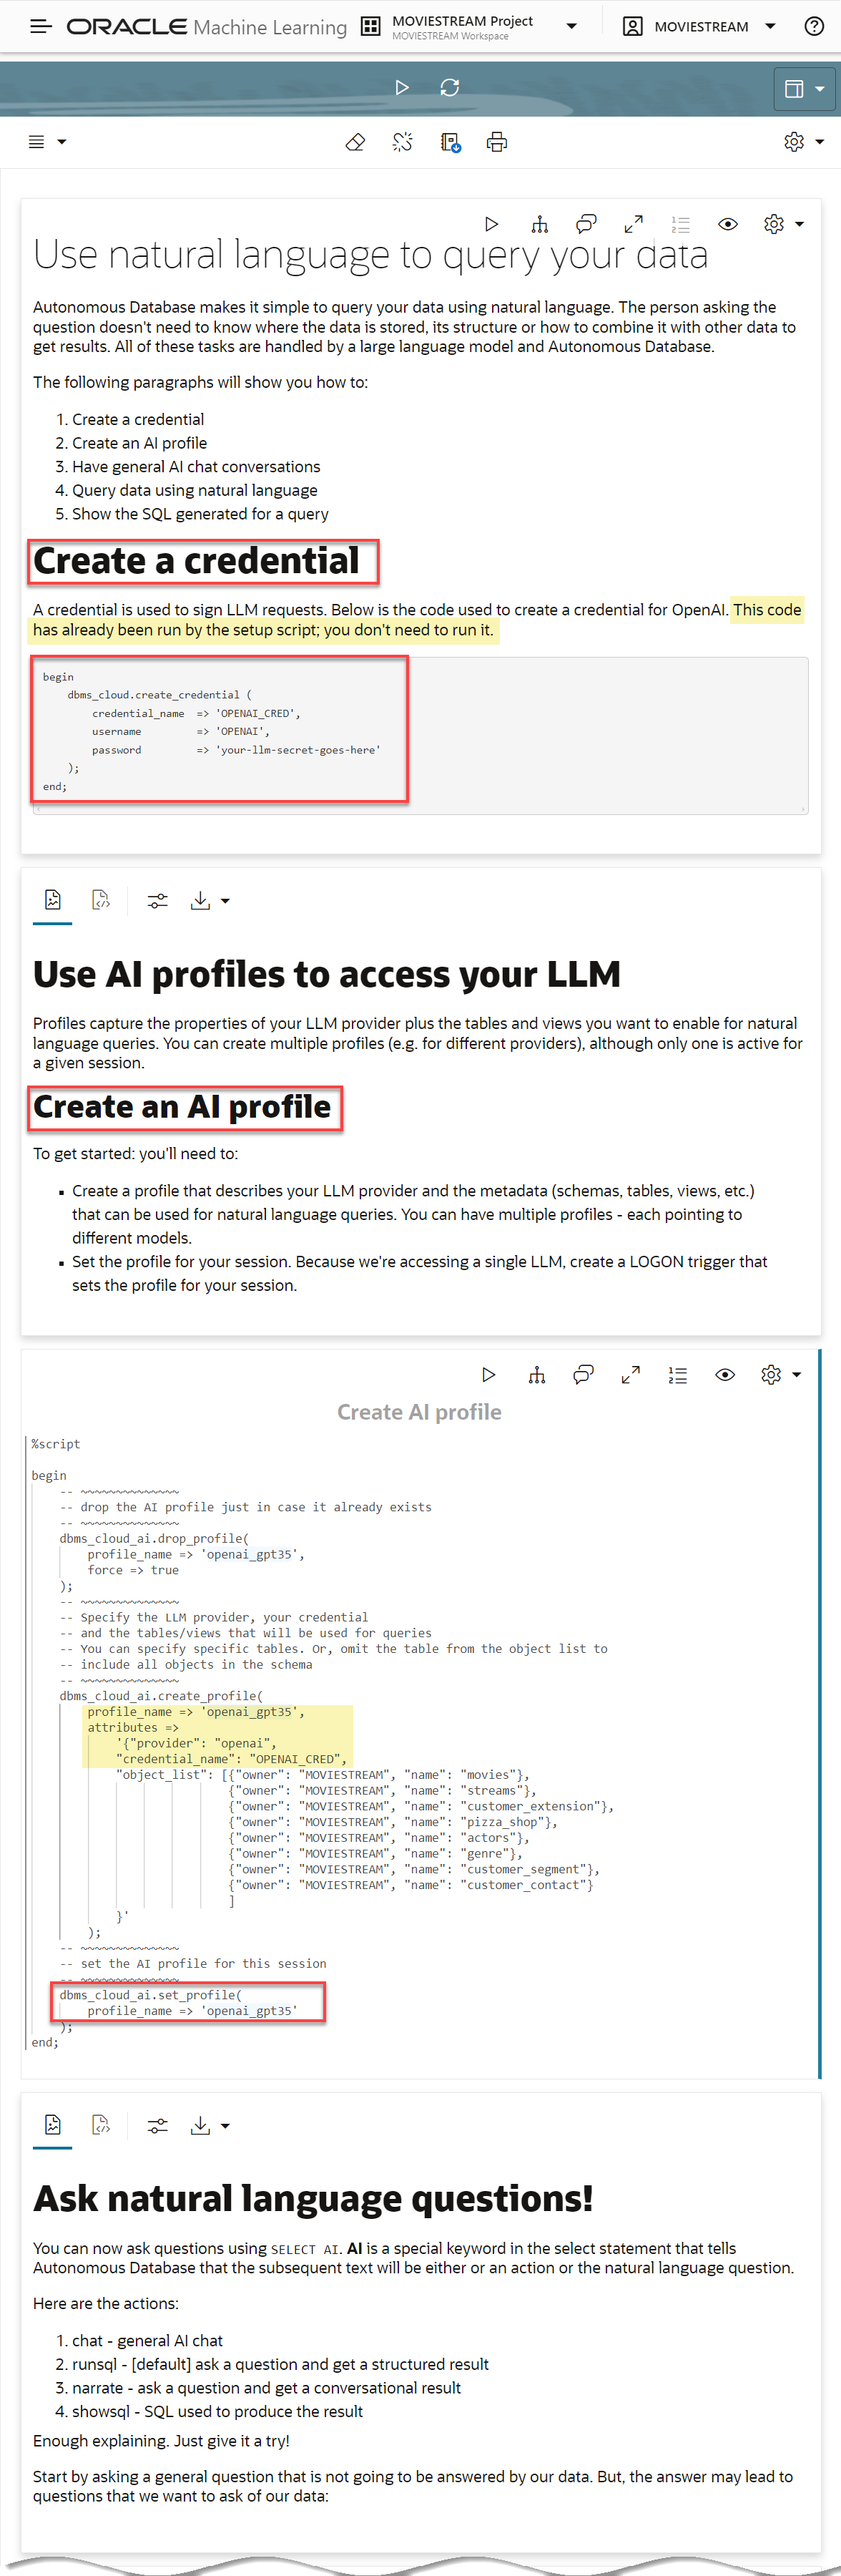
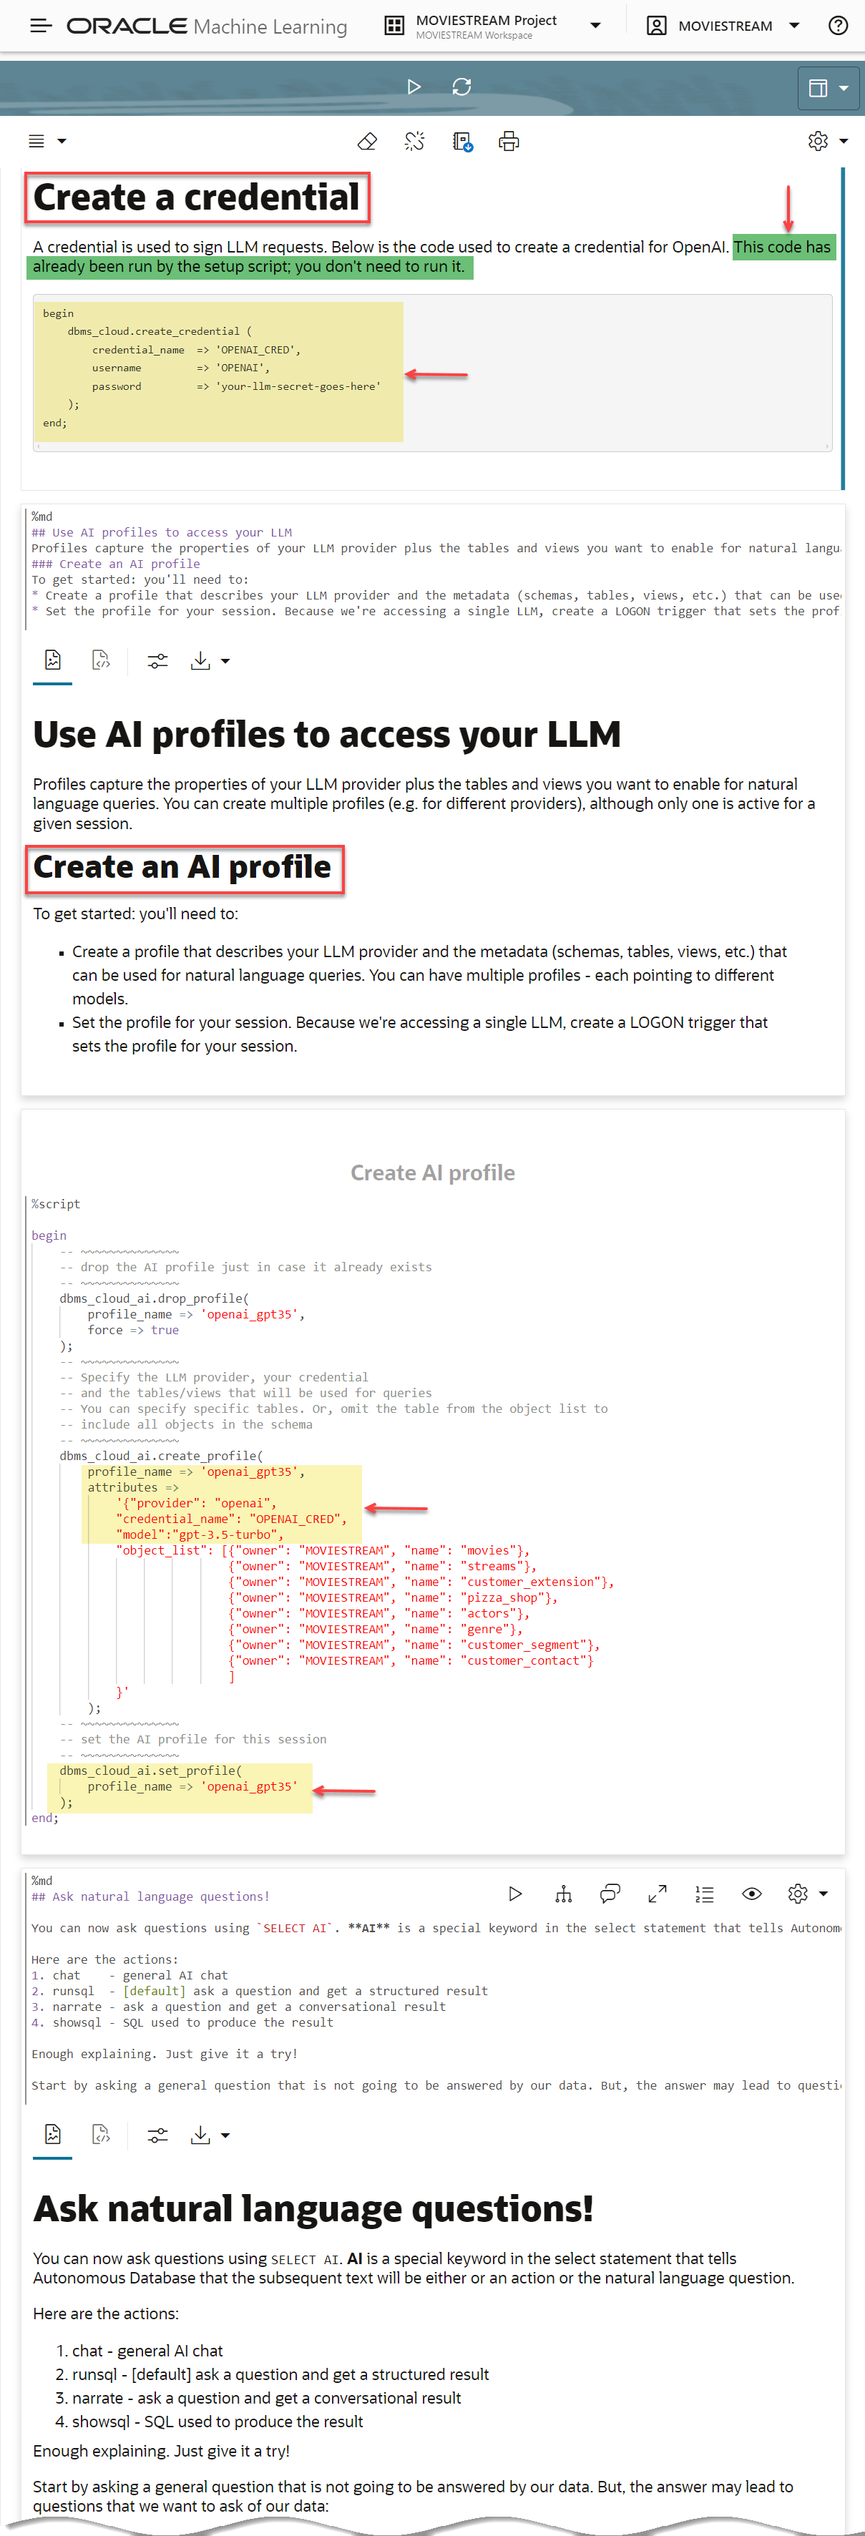
more updates

diff --git a/shared/adb-speaks-human/query-using-select-ai/query-using-select-ai.md b/shared/adb-speaks-human/query-using-select-ai/query-using-select-ai.md
@@ -61,6 +61,7 @@ To get started, you'll need to do the following:
             attributes =>
                 '{"provider": "openai",
                 "credential_name": "OPENAI_CRED",
+                "model":"gpt-3.5-turbo",
                 "object_list": [{"owner": "MOVIESTREAM", "name": "movies"},
                                 {"owner": "MOVIESTREAM", "name": "streams"},
                                 {"owner": "MOVIESTREAM", "name": "customer_extension"},
@@ -273,7 +274,6 @@ A notebook is comprised of paragraphs that use different languages: SQL, PL/SQL,
 
     ![Invalidate the session.](./images/invalidate-session.png =60%x*)
 
-
 6. Examine, run, and review the output of the remaining paragraphs, as desired. To run the entire notebook, click the **Run Paragraphs** icon on the notebook banner. A **Run all paragraphs** confirmation message box is displayed. Click **Confirm**.
 
   ![Run all paragraphs](images/run-all-paragraph.png)
@@ -286,12 +286,13 @@ You may now proceed to the next lab.
 
 * [OML Notebooks](https://docs.oracle.com/en/database/oracle/machine-learning/oml-notebooks/index.html)
 * [Using Oracle Autonomous Database Serverless](https://docs.oracle.com/en/cloud/paas/autonomous-database/adbsa/index.html)
+* [How to help AI models generate better natural language queries](https://blogs.oracle.com/datawarehousing/post/how-to-help-ai-models-generate-better-natural-language-queries-in-autonomous-database)
 
 ## Acknowledgements
 
 * **Author:** Lauran K. Serhal, Consulting User Assistance Developer
 * **Contributor:** Marty Gubar, Product Manager
-* **Last Updated By/Date:** Lauran K. Serhal, April 2024
+* **Last Updated By/Date:** Lauran K. Serhal, June 2024
 
 Data about movies in this workshop were sourced from **Wikipedia**.
 

diff --git a/shared/adb-speaks-human/use-select-ai-demo/use-select-ai-demo.md b/shared/adb-speaks-human/use-select-ai-demo/use-select-ai-demo.md
@@ -103,7 +103,7 @@ You may now proceed to the next lab.
 ## Acknowledgements
   * **Author:** Lauran K. Serhal, Consulting User Assistance Developer
   * **Contributors:** Marty Gubar, Product Management
-* **Last Updated By/Date:** Lauran K. Serhal, April 2024
+* **Last Updated By/Date:** Lauran K. Serhal, June 2024
 
 Data about movies in this workshop were sourced from **Wikipedia**.
 
